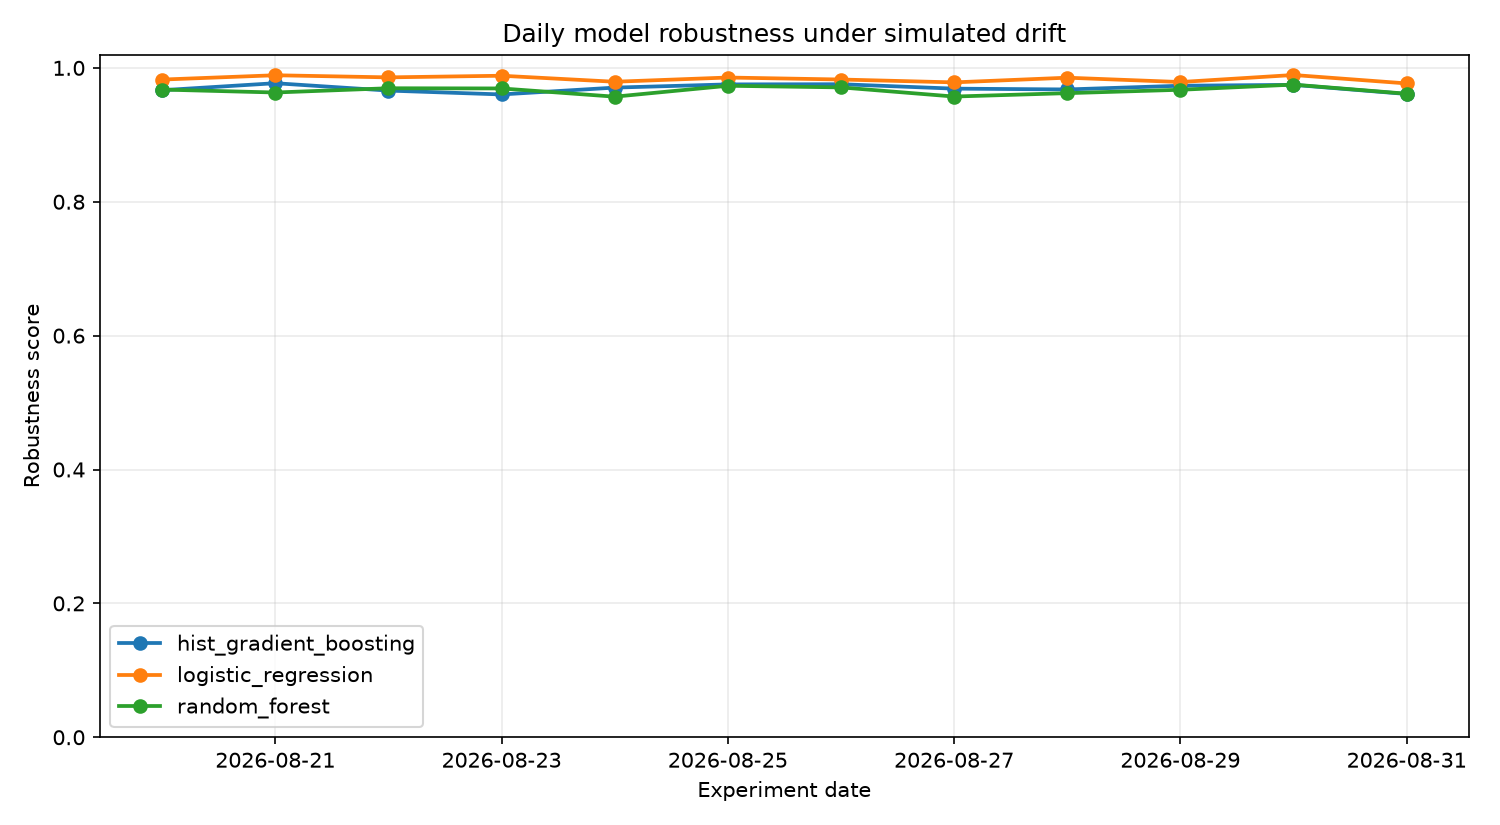
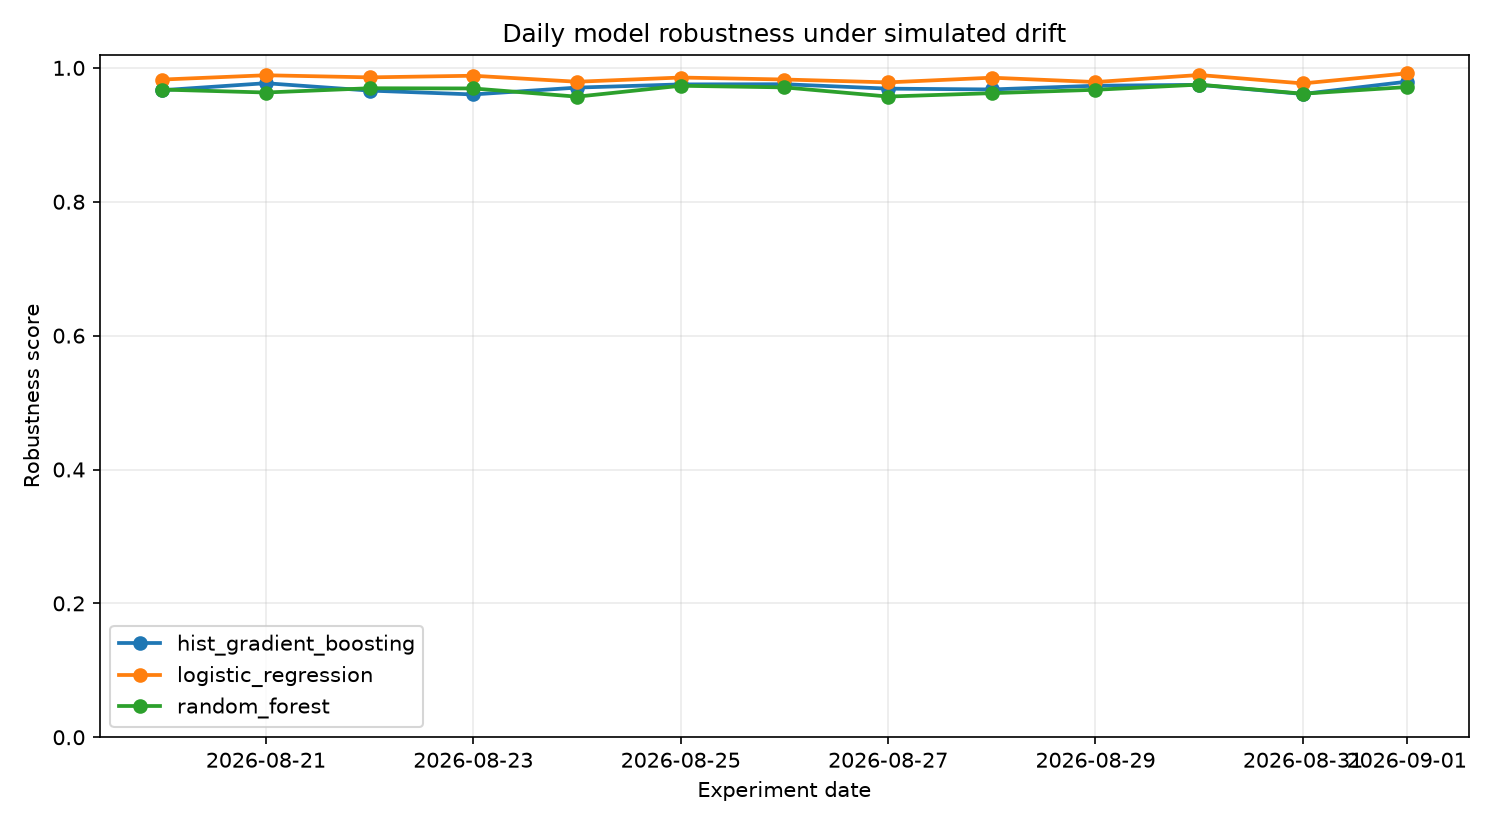
chore(observatory): daily drift benchmark 2026-09-01

diff --git a/reports/latest.md b/reports/latest.md
@@ -1,37 +1,37 @@
 # Latest DriftWatch Report
 
-**Experiment date:** 2026-08-31
+**Experiment date:** 2026-09-01
 
 ## Drift scenario
 
-- Drift strength: `0.515`
-- Scale factor: `1.051`
-- Noise ratio: `0.087`
-- Mask ratio: `0.023`
-- Affected features: mean texture, mean concavity, mean concave points, compactness error, symmetry error, worst compactness, worst concave points, worst fractal dimension
+- Drift strength: `0.464`
+- Scale factor: `0.954`
+- Noise ratio: `0.081`
+- Mask ratio: `0.021`
+- Affected features: mean smoothness, mean symmetry, smoothness error, compactness error, worst compactness, worst concave points, worst symmetry
 
 ## Model ranking
 
 | Rank | Model | Robustness | ROC-AUC | F1 | Balanced Acc. | Log Loss | Brier |
 |---:|---|---:|---:|---:|---:|---:|---:|
-| 1 | `logistic_regression` | 0.9768 | 0.9987 | 0.9615 | 0.9595 | 0.0994 | 0.0304 |
-| 2 | `random_forest` | 0.9614 | 0.9912 | 0.9423 | 0.9345 | 0.1591 | 0.0468 |
-| 3 | `hist_gradient_boosting` | 0.9610 | 0.9909 | 0.9429 | 0.9314 | 0.1517 | 0.0450 |
+| 1 | `logistic_regression` | 0.9918 | 0.9980 | 0.9907 | 0.9844 | 0.0613 | 0.0149 |
+| 2 | `hist_gradient_boosting` | 0.9793 | 0.9920 | 0.9772 | 0.9609 | 0.1036 | 0.0278 |
+| 3 | `random_forest` | 0.9714 | 0.9930 | 0.9633 | 0.9438 | 0.1305 | 0.0359 |
 
 ## Highest feature drift (PSI)
 
 | Feature | PSI |
 |---|---:|
-| mean concavity | 2.6306 |
-| compactness error | 1.6328 |
-| mean concave points | 0.8246 |
-| worst compactness | 0.5286 |
-| symmetry error | 0.5273 |
-| worst fractal dimension | 0.3416 |
-| worst concave points | 0.2685 |
-| mean texture | 0.2413 |
+| worst symmetry | 0.3425 |
+| worst concave points | 0.2906 |
+| compactness error | 0.2879 |
+| worst compactness | 0.2196 |
+| texture error | 0.1848 |
+| fractal dimension error | 0.1570 |
+| mean symmetry | 0.1469 |
+| smoothness error | 0.1416 |
 
-**Mean PSI:** `0.2963`  
-**Max PSI:** `2.6306`
+**Mean PSI:** `0.1130`  
+**Max PSI:** `0.3425`
 
 _Generated automatically by the DriftWatch daily observatory pipeline._
